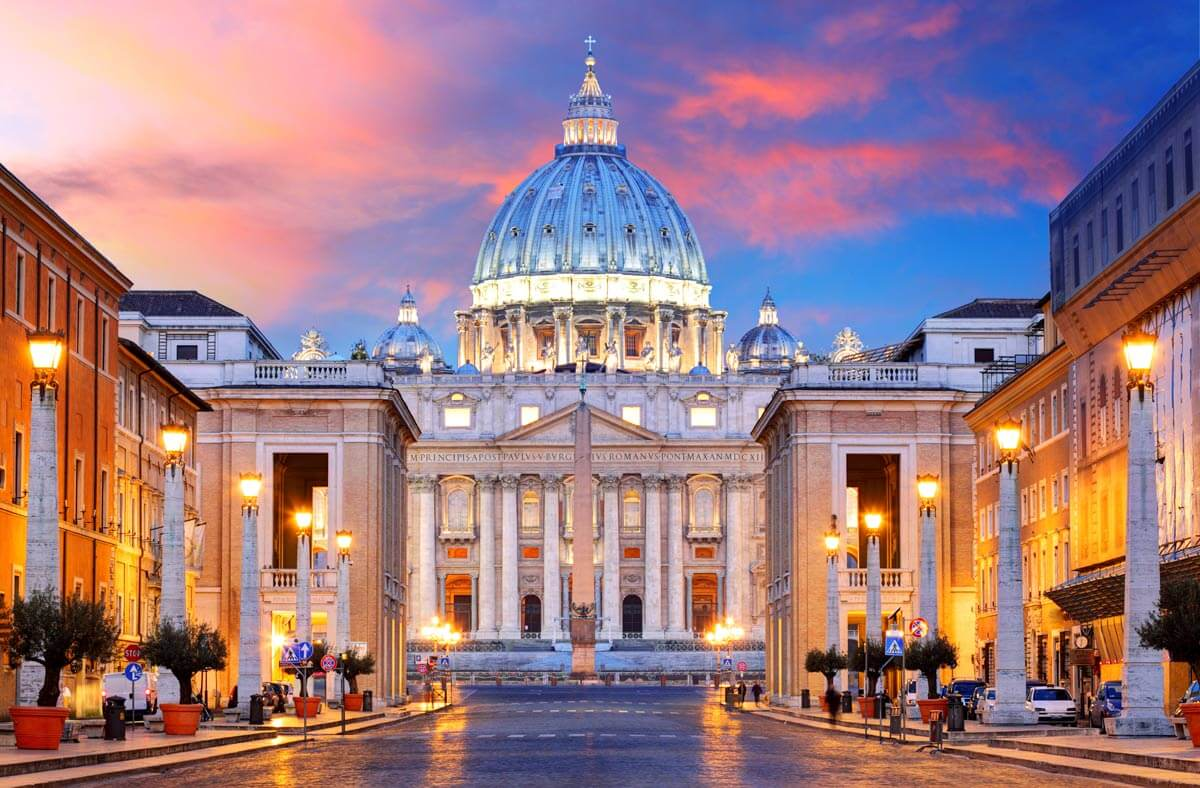
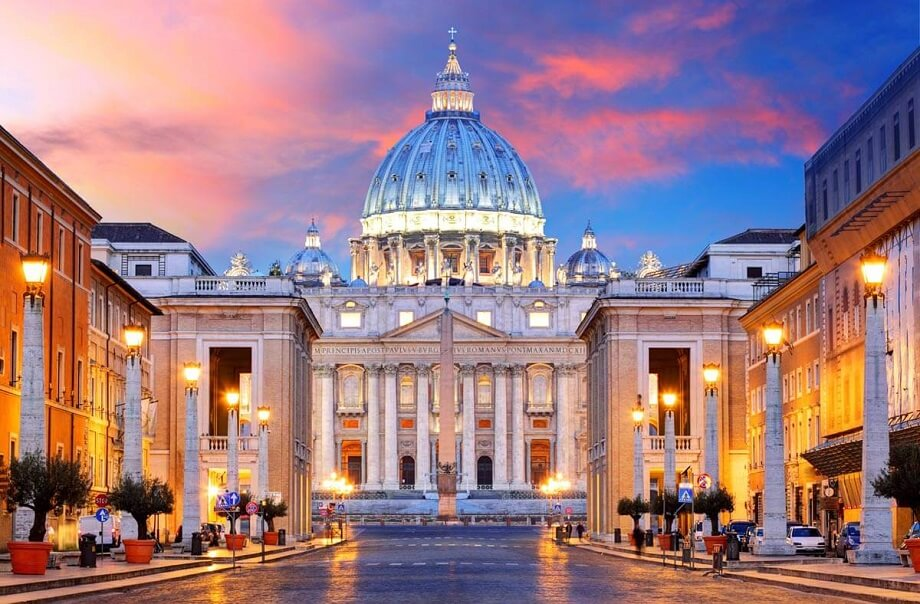
Create Mate component, optimization images

diff --git a/app/utils/Meta.tsx b/app/utils/Meta.tsx
@@ -1,0 +1,37 @@
+import { FC } from 'react';
+import Head from 'next/head';
+import { useRouter } from 'next/router';
+
+interface IMeta {
+  title: string;
+  description?: string;
+  image?: string;
+}
+
+const Meta: FC<IMeta> = ({ title, description, image }) => {
+  const { asPath } = useRouter();
+  const currentUrl = `${process.env.NEXT_PUBLIC_URL}${asPath}`;
+  const pageTitle = `${title} | Travel App`;
+
+  return (
+    <Head>
+      <title itemProp="headline">{pageTitle}</title>
+      {description ? (
+        <>
+          <meta itemProp="description" name="description" content={description} />
+          <link rel="canonical" href={currentUrl} />
+          <meta property="og:locale" content="en" />
+          <meta property="og:title" content={title} />
+          <meta property="og:url" content={currentUrl} />
+          <meta property="og:image" content={image || '/logo.jpg'} />
+          <meta property="og:site_name" content="Travel App" />
+          <meta property="og:description" content={description} />
+        </>
+      ) : (
+        <meta name="robots" content="noindex, nofollow" />
+      )}
+    </Head>
+  );
+};
+
+export default Meta;

diff --git a/pages/index.tsx b/pages/index.tsx
@@ -1,5 +1,6 @@
 import { useState } from 'react';
 import { NextPage, GetStaticProps } from 'next';
+import Meta from 'utils/Meta';
 import MainLayout from '../app/layouts/MainLayout';
 import { IPlace, IFiltersPopularCountries } from '@/types/';
 import { SearchPanel, PopularPlaces } from '@/HomePage/index';
@@ -15,6 +16,10 @@ const Home: NextPage<IHomeProps> = ({ initialPlaces, filtersPopularCountries }) 
 
   return (
     <MainLayout>
+      <Meta
+        title="Book your trip"
+        description="Application for finding places for your vacation, book your vacation right now"
+      />
       <SearchPanel
         setPlaces={setPlaces}
         initialPlaces={initialPlaces}

diff --git a/pages/_app.tsx b/pages/_app.tsx
@@ -7,7 +7,7 @@ function MyApp({ Component, pageProps }: AppProps) {
   return (
     <>
       <NextNProgress color="#eb601e" />
-      <Component {...pageProps} />;
+      <Component {...pageProps} />
     </>
   );
 }
